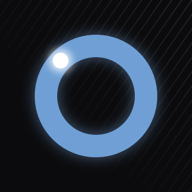
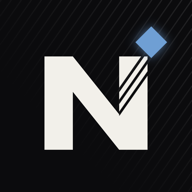
アイコンを「N」＋青く光るひし形のデザインに変更（リングはカメラに見えるため）
- 太い白の N、上のバーのロゴと同じ青いひし形、VA と同じ向きの切り込み線
- icon.svg・logo-square.svg・favicon-32・apple-touch-icon・icon-192/512 を置き換え
- アイコンの版番号を ?v=20261113b に

diff --git a/404.html b/404.html
@@ -7,9 +7,9 @@
   <meta name="robots" content="noindex">
   <meta name="theme-color" content="#0b0b0d">
   <!-- サイトのアイコン（どの階層で表示されても読めるよう、すべて / から始まる書き方） -->
-  <link rel="icon" href="/icon.svg?v=20261113" type="image/svg+xml">
-  <link rel="icon" href="/favicon-32.png?v=20261113" sizes="32x32" type="image/png">
-  <link rel="apple-touch-icon" href="/apple-touch-icon.png?v=20261113">
+  <link rel="icon" href="/icon.svg?v=20261113bb" type="image/svg+xml">
+  <link rel="icon" href="/favicon-32.png?v=20261113bb" sizes="32x32" type="image/png">
+  <link rel="apple-touch-icon" href="/apple-touch-icon.png?v=20261113bb">
   <!-- 全ページ共通（フォント・角の丸み）とトップページのデザイン -->
   <link rel="preconnect" href="https://fonts.googleapis.com">
   <link rel="preconnect" href="https://fonts.gstatic.com" crossorigin>

diff --git a/privacy/index.html b/privacy/index.html
@@ -14,9 +14,9 @@
   <meta property="og:title" content="プライバシーポリシー｜novalis">
   <meta property="og:image" content="https://novalis-lab.github.io/ogp.png">
   <!-- サイトのアイコン -->
-  <link rel="icon" href="/icon.svg?v=20261113" type="image/svg+xml">
-  <link rel="icon" href="/favicon-32.png?v=20261113" sizes="32x32" type="image/png">
-  <link rel="apple-touch-icon" href="/apple-touch-icon.png?v=20261113">
+  <link rel="icon" href="/icon.svg?v=20261113bb" type="image/svg+xml">
+  <link rel="icon" href="/favicon-32.png?v=20261113bb" sizes="32x32" type="image/png">
+  <link rel="apple-touch-icon" href="/apple-touch-icon.png?v=20261113bb">
   <!-- 全ページ共通（フォント・角の丸み）とトップページのデザイン -->
   <link rel="preconnect" href="https://fonts.googleapis.com">
   <link rel="preconnect" href="https://fonts.gstatic.com" crossorigin>

diff --git a/index.html b/index.html
@@ -32,10 +32,10 @@
   }
   </script>
   <!-- サイトのアイコン（ブラウザのタブ・スマホのホーム画面） -->
-  <link rel="icon" href="/icon.svg?v=20261113" type="image/svg+xml">
-  <link rel="icon" href="/favicon-32.png?v=20261113" sizes="32x32" type="image/png">
-  <link rel="apple-touch-icon" href="/apple-touch-icon.png?v=20261113">
-  <link rel="manifest" href="/site.webmanifest?v=20261113">
+  <link rel="icon" href="/icon.svg?v=20261113bb" type="image/svg+xml">
+  <link rel="icon" href="/favicon-32.png?v=20261113bb" sizes="32x32" type="image/png">
+  <link rel="apple-touch-icon" href="/apple-touch-icon.png?v=20261113bb">
+  <link rel="manifest" href="/site.webmanifest?v=20261113b">
   <!-- フォント（Google Fonts・無料） -->
   <link rel="preconnect" href="https://fonts.googleapis.com">
   <link rel="preconnect" href="https://fonts.gstatic.com" crossorigin>

diff --git a/about/index.html b/about/index.html
@@ -14,9 +14,9 @@
   <meta property="og:title" content="運営者情報｜novalis">
   <meta property="og:image" content="https://novalis-lab.github.io/ogp.png">
   <!-- サイトのアイコン -->
-  <link rel="icon" href="/icon.svg?v=20261113" type="image/svg+xml">
-  <link rel="icon" href="/favicon-32.png?v=20261113" sizes="32x32" type="image/png">
-  <link rel="apple-touch-icon" href="/apple-touch-icon.png?v=20261113">
+  <link rel="icon" href="/icon.svg?v=20261113bb" type="image/svg+xml">
+  <link rel="icon" href="/favicon-32.png?v=20261113bb" sizes="32x32" type="image/png">
+  <link rel="apple-touch-icon" href="/apple-touch-icon.png?v=20261113bb">
   <!-- 全ページ共通（フォント・角の丸み）とトップページのデザイン -->
   <link rel="preconnect" href="https://fonts.googleapis.com">
   <link rel="preconnect" href="https://fonts.gstatic.com" crossorigin>

diff --git a/README.md b/README.md
@@ -47,7 +47,7 @@
 
 ## ロゴ・アイコンのファイル
 
-デザイン：ほぼ黒の背景に、トップページのロゴの「O」と同じ **青く光るリング** と、まわりを回る **白い光の粒**。右上に背景と同じ斜線。
+デザイン：ほぼ黒の背景に、太い白の **「N」** と、上のバーのロゴと同じ **青く光るひし形（◆）**。「N」の右の縦棒には、トップページのロゴ「VA」と同じ向きの斜めの切り込み線。右上に背景と同じ斜線。
 
 | ファイル | 使いみち |
 |---|---|
@@ -62,7 +62,7 @@
 ほかのツールのページでも、`<head>` に次の3行を入れると同じアイコンになります。
 
 ```html
-<link rel="icon" href="https://novalis-lab.github.io/icon.svg?v=20261113" type="image/svg+xml">
-<link rel="icon" href="https://novalis-lab.github.io/favicon-32.png?v=20261113" sizes="32x32" type="image/png">
-<link rel="apple-touch-icon" href="https://novalis-lab.github.io/apple-touch-icon.png?v=20261113">
+<link rel="icon" href="https://novalis-lab.github.io/icon.svg?v=20261113bb" type="image/svg+xml">
+<link rel="icon" href="https://novalis-lab.github.io/favicon-32.png?v=20261113bb" sizes="32x32" type="image/png">
+<link rel="apple-touch-icon" href="https://novalis-lab.github.io/apple-touch-icon.png?v=20261113bb">
 ```
